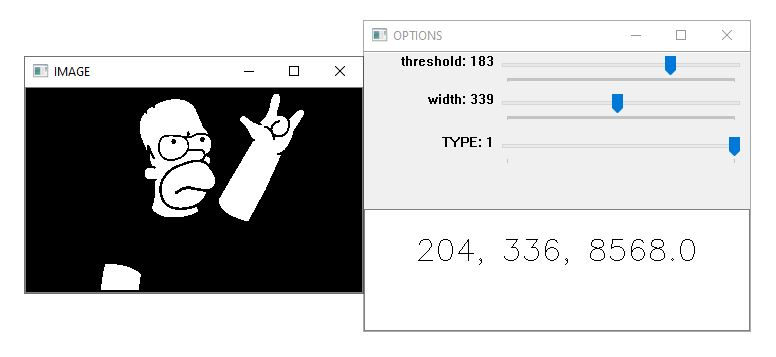
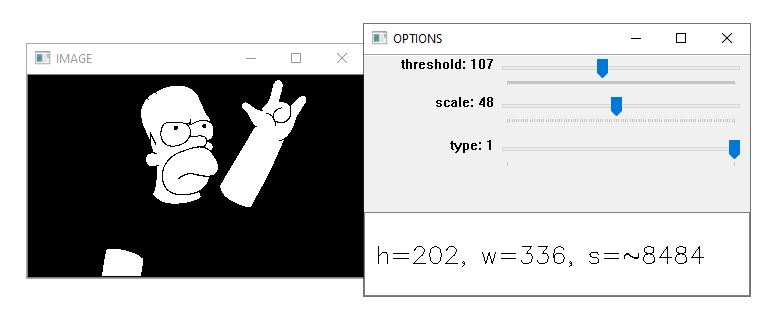
readme changes

diff --git a/DotArt.py b/DotArt.py
@@ -5,7 +5,7 @@ COLOR = 255
 EMPTY_SPACES = False
 
 tb_threshold= 'threshold'
-tb_scale = 'width'
+tb_scale = 'scale'
 tb_type = 'type'
 title_window="OPTIONS"
 
